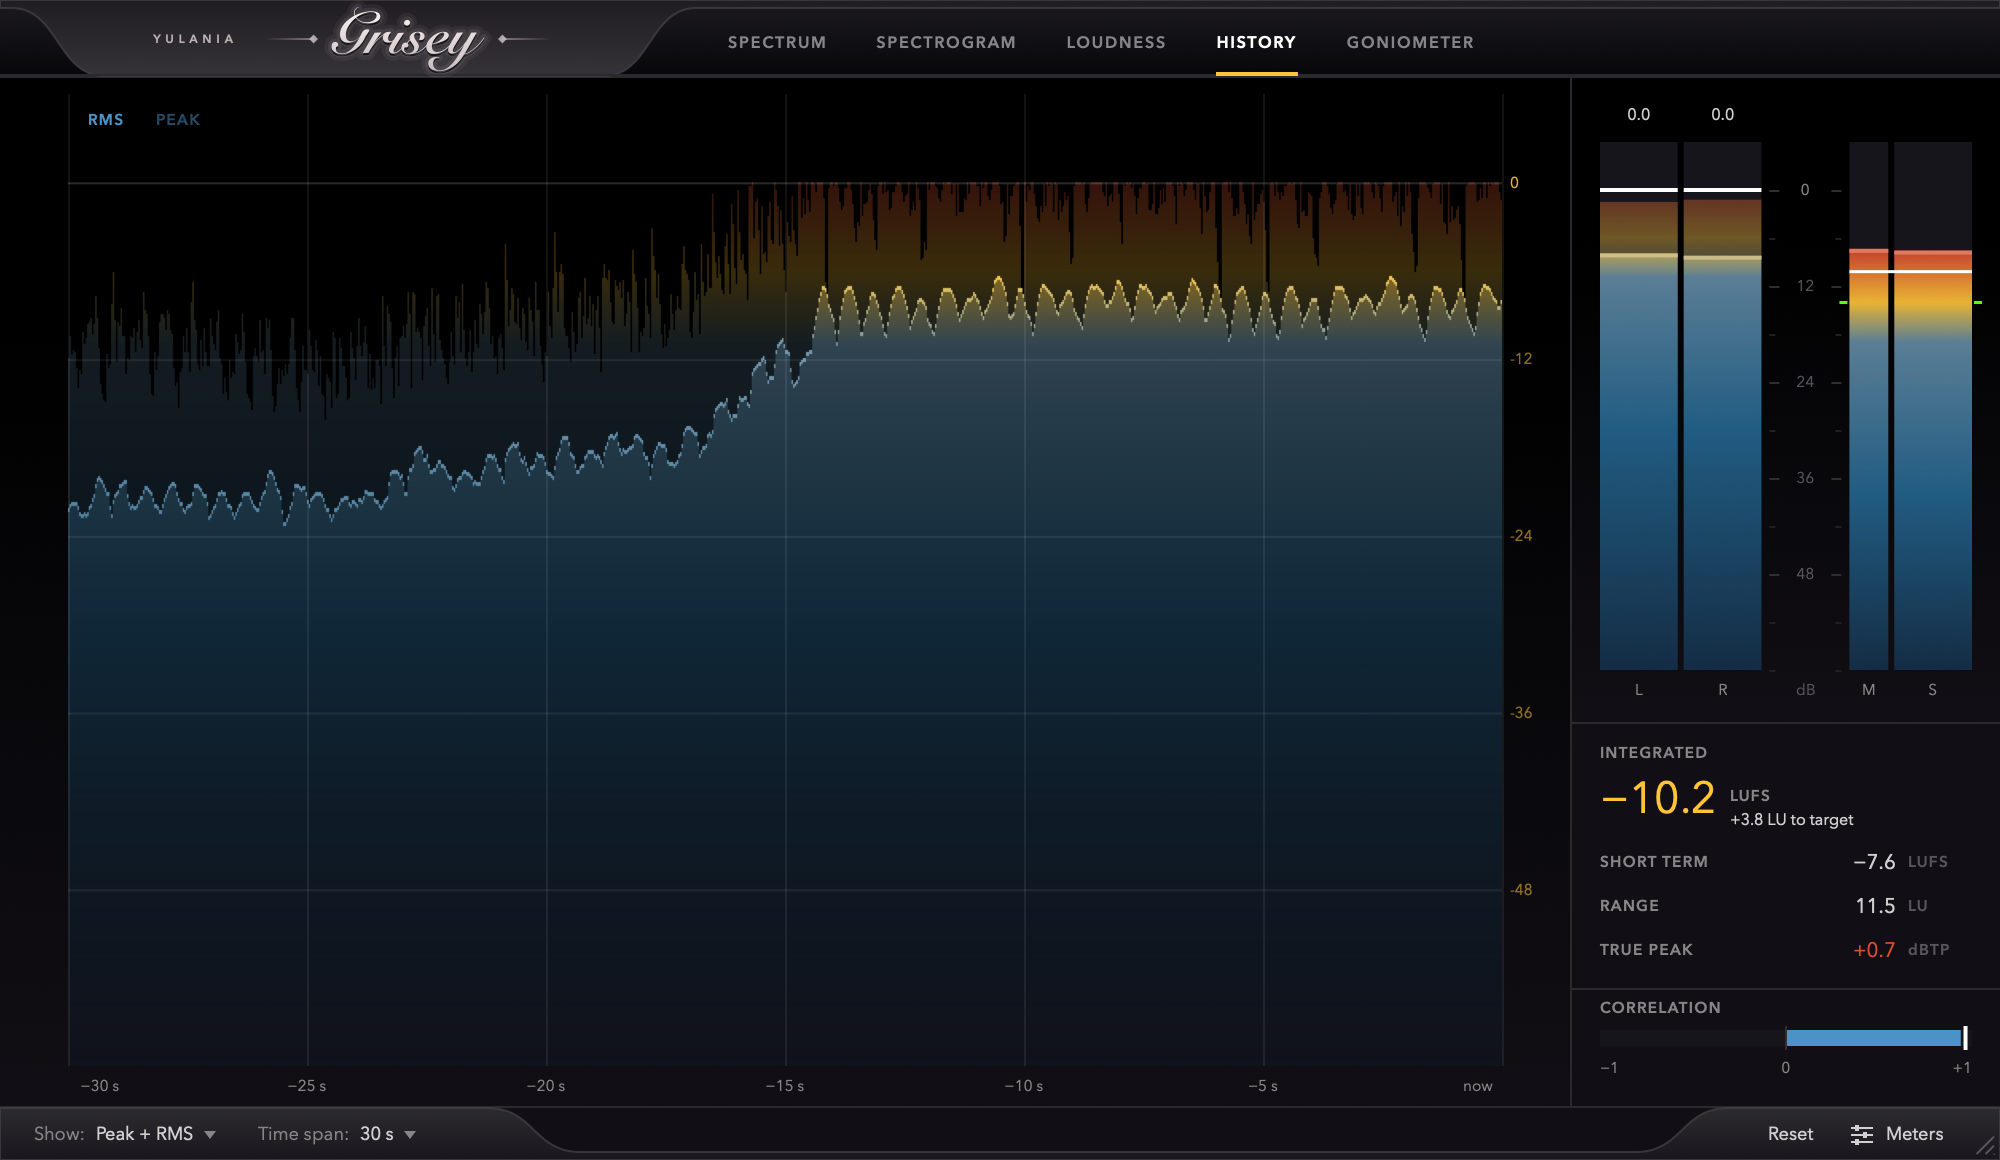
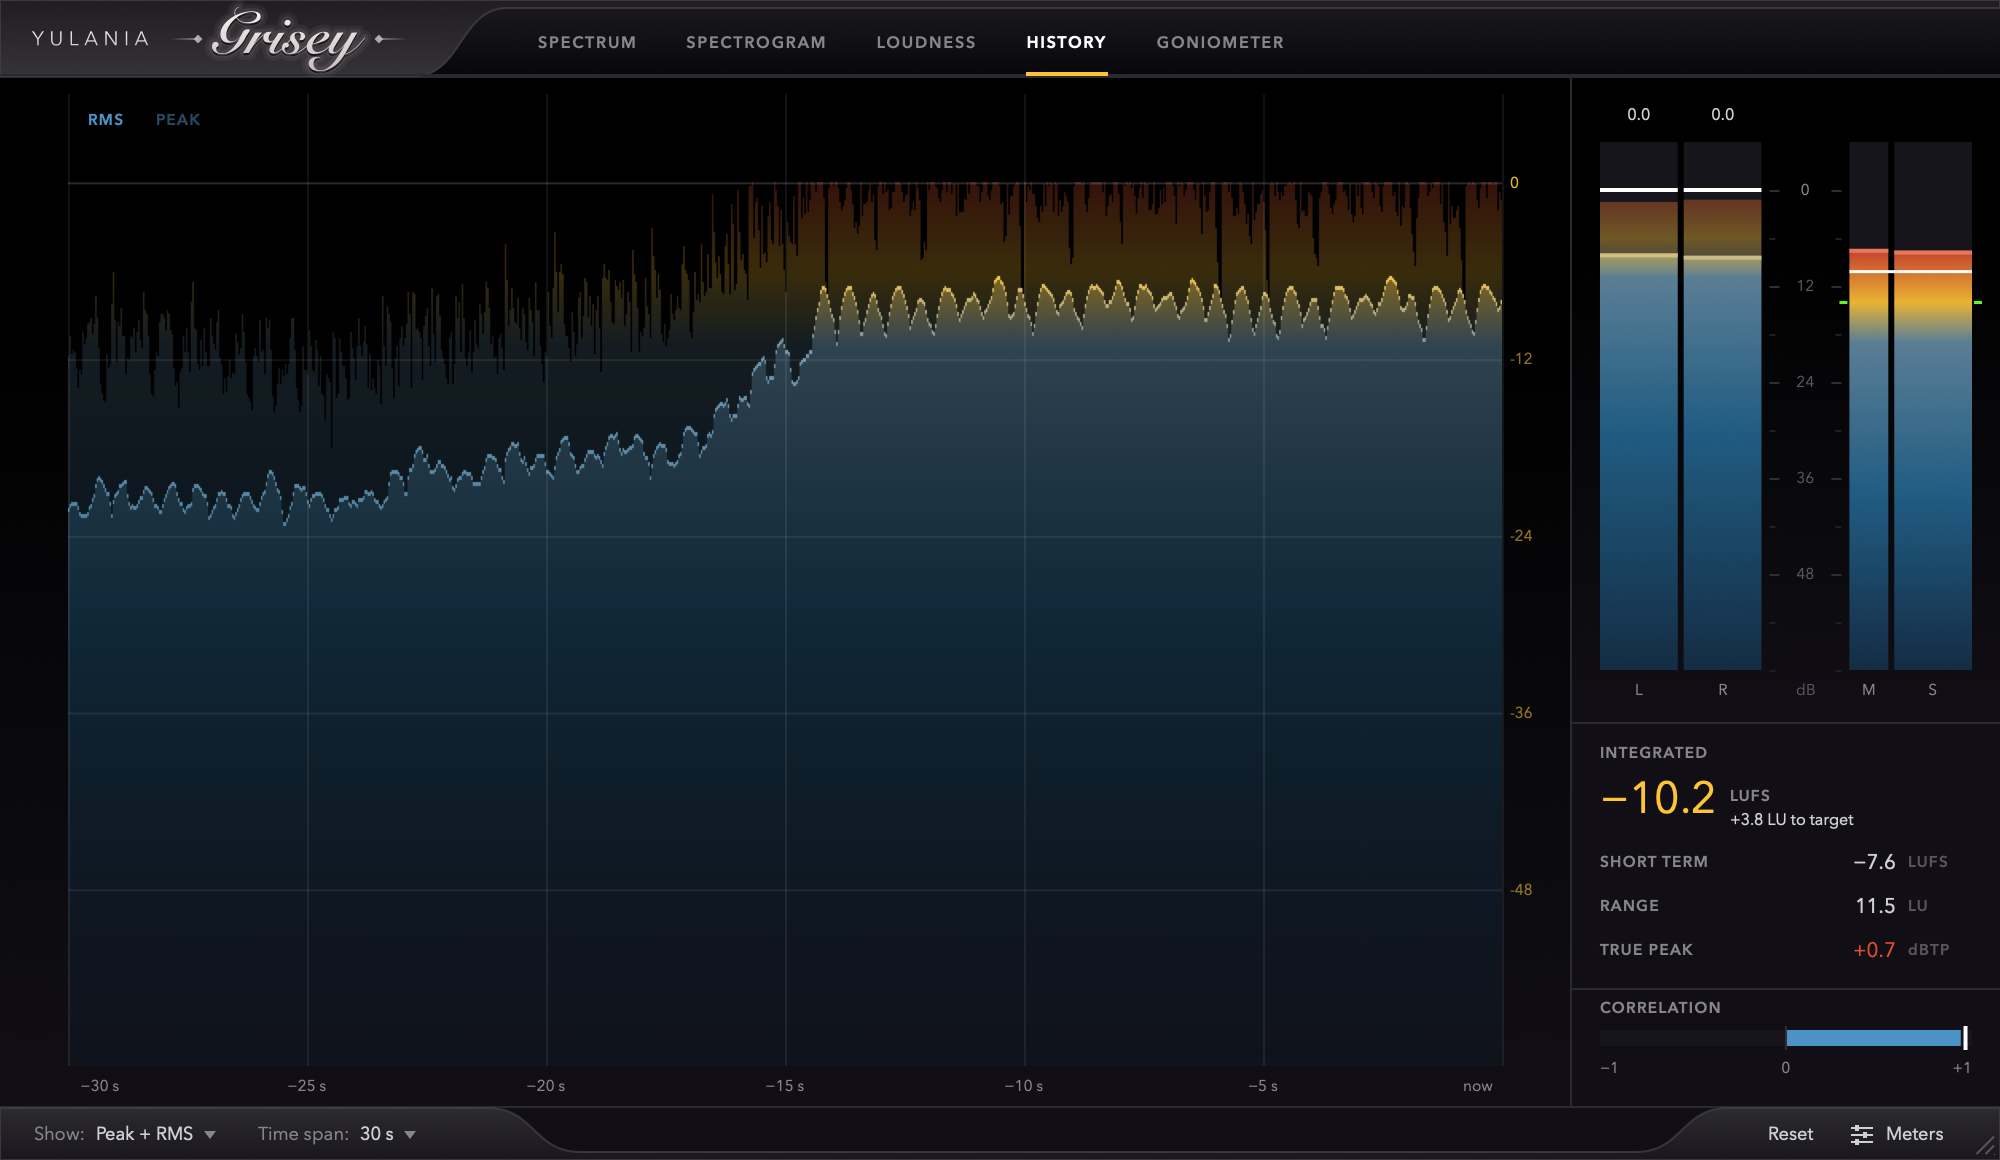
Close up the name's tab, and make the maker's name larger
Beside the header of a FabFilter plugin, ours had a great deal of room around
the name: the tab had a shoulder at both ends and a width of its own, with the
line centred in it, so the first letter was 60 points from the edge of the
window, and the maker's name was in 8 point capitals.

The tab now starts at the left edge of the window, as theirs does, with one
shoulder, at its right, and is as wide as the line in it and no wider. The
maker's name is 13.5 points, in the silver of the product's name, and the
flourishes are shorter and closer to the name. The tabs of the views start
where the tab ends, so they have more room as well.

diff --git a/Source/PluginEditor.cpp b/Source/PluginEditor.cpp
@@ -135,10 +135,30 @@ void GriseyAudioProcessorEditor::paint(juce::Graphics& g)
 
 namespace
 {
-    // The widths of the raised tab that holds the name, and of the shoulders on either side of it
-    constexpr float nameTabStart = 6.f;
-    constexpr float nameTabWidth = 250.f;
+    // The raised tab that holds the name starts at the left edge of the window, as FabFilter's does, and is as
+    // wide as the line in it with this much on either side. It ends in a shoulder of this width.
+    constexpr float namePaddingLeft = 16.f;
+    constexpr float namePaddingRight = 4.f;
     constexpr float shoulderWidth = 46.f;
+
+    juce::Font makerFont()
+    {
+        return Theme::font(Wordmark::makerFontHeight).withExtraKerningFactor(Wordmark::makerKerning);
+    }
+
+    // The width of the line in the tab: the maker, a flourish, the name, a flourish
+    float nameLineWidth()
+    {
+        const float wordWidth = Wordmark::width * Wordmark::heightInHeader / Wordmark::height;
+        const float flourish = Wordmark::ruleGap + Wordmark::ruleLength;
+        return (float)Theme::textWidth(makerFont(), Wordmark::maker) + Wordmark::makerGap + flourish + wordWidth + flourish;
+    }
+
+    // Where the flat part of the tab ends and its shoulder begins
+    float nameTabRight()
+    {
+        return namePaddingLeft + nameLineWidth() + namePaddingRight;
+    }
 
     // The thickness of the raised edge that runs along the rest of the chrome
     constexpr float rimThickness = 4.f;
@@ -160,10 +180,9 @@ void GriseyAudioProcessorEditor::paintHeader(juce::Graphics& g, juce::Rectangle<
     g.setGradientFill(juce::ColourGradient(Theme::chromeInsetTop, 0.f, bounds.getY(), Theme::chromeInsetBottom, 0.f, bounds.getBottom(), false));
     g.fillRect(bounds);
 
-    // The raised part: a rim along the top, which drops into a tab for the name
+    // The raised part: a rim along the top, which drops into a tab for the name at the left edge of the window
     const float rim = bounds.getY() + rimThickness;
-    const float tabLeft = bounds.getX() + nameTabStart + shoulderWidth;
-    const float tabRight = tabLeft + nameTabWidth;
+    const float tabRight = bounds.getX() + nameTabRight();
 
     juce::Path raised;
     raised.startNewSubPath(bounds.getTopLeft());
@@ -171,9 +190,7 @@ void GriseyAudioProcessorEditor::paintHeader(juce::Graphics& g, juce::Rectangle<
     raised.lineTo(bounds.getRight(), rim);
     raised.lineTo(tabRight + shoulderWidth, rim);
     shoulderTo(raised, { tabRight, bounds.getBottom() });
-    raised.lineTo(tabLeft, bounds.getBottom());
-    shoulderTo(raised, { bounds.getX() + nameTabStart, rim });
-    raised.lineTo(bounds.getX(), rim);
+    raised.lineTo(bounds.getBottomLeft());
     raised.closeSubPath();
 
     g.setGradientFill(juce::ColourGradient(Theme::chromeTop, 0.f, bounds.getY(), Theme::chromeBottom, 0.f, bounds.getBottom(), false));
@@ -185,7 +202,7 @@ void GriseyAudioProcessorEditor::paintHeader(juce::Graphics& g, juce::Rectangle<
     g.setColour(Theme::edge);
     g.fillRect(bounds.withTop(bounds.getBottom() - 1.f));
 
-    paintName(g, juce::Rectangle<float>(tabLeft, bounds.getY(), nameTabWidth, bounds.getHeight()));
+    paintName(g, bounds.withWidth(nameTabRight()).withTrimmedLeft(namePaddingLeft));
 }
 
 void GriseyAudioProcessorEditor::paintName(juce::Graphics& g, juce::Rectangle<float> tab)
@@ -195,14 +212,12 @@ void GriseyAudioProcessorEditor::paintName(juce::Graphics& g, juce::Rectangle<fl
     // lighter at the top than at the bottom, set into the surface, with a flourish on either side of it.
     // The maker's name is to the left of all that, on the same line. Its place does not depend on the letters
     // of the product's name, so every plugin of the maker's can have it in the same place.
-    const auto makerFont = Theme::font(Wordmark::makerFontHeight, true).withExtraKerningFactor(Wordmark::makerKerning);
-    const float makerWidth = (float)Theme::textWidth(makerFont, Wordmark::maker);
+    const float makerWidth = (float)Theme::textWidth(makerFont(), Wordmark::maker);
     const float wordWidth = Wordmark::width * Wordmark::heightInHeader / Wordmark::height;
     const float flourish = Wordmark::ruleGap + Wordmark::ruleLength;
 
-    // The whole line is centred in the tab: the maker, a flourish, the name, a flourish
-    const float lineWidth = makerWidth + Wordmark::makerGap + flourish + wordWidth + flourish;
-    const float lineLeft = tab.getCentreX() - 0.5f * lineWidth;
+    // The line starts at the left of the tab: the maker, a flourish, the name, a flourish
+    const float lineLeft = tab.getX();
 
     const auto word = juce::Rectangle<float>(lineLeft + makerWidth + Wordmark::makerGap + flourish, 0.f, wordWidth, Wordmark::heightInHeader)
                           .withCentre({ lineLeft + makerWidth + Wordmark::makerGap + flourish + 0.5f * wordWidth, tab.getCentreY() + 0.5f });
@@ -239,9 +254,11 @@ void GriseyAudioProcessorEditor::paintName(juce::Graphics& g, juce::Rectangle<fl
     g.setGradientFill(juce::ColourGradient(Theme::wordmarkTop, 0.f, word.getY(), Theme::wordmarkBottom, 0.f, word.getBottom(), false));
     g.fillPath(wordmarkOutline, placement);
 
-    g.setFont(makerFont);
-    g.setColour(Theme::wordmarkBottom.withAlpha(0.9f));
-    g.drawText(Wordmark::maker, juce::Rectangle<float>(lineLeft - 2.f, ruleY - 8.f, makerWidth + 6.f, 16.f), juce::Justification::centredLeft);
+    // The maker's name is in the same silver as the product's
+    const auto makerArea = juce::Rectangle<float>(lineLeft, ruleY - 10.f, makerWidth + 6.f, 20.f);
+    g.setFont(makerFont());
+    g.setGradientFill(juce::ColourGradient(Theme::wordmarkTop, 0.f, makerArea.getY() + 4.f, Theme::wordmarkBottom, 0.f, makerArea.getBottom() - 4.f, false));
+    g.drawText(Wordmark::maker, makerArea, juce::Justification::centredLeft);
 }
 
 void GriseyAudioProcessorEditor::paintBottomBar(juce::Graphics& g, juce::Rectangle<int> area)
@@ -287,7 +304,7 @@ void GriseyAudioProcessorEditor::resized()
 
     // The tabs start where the shoulder of the name's tab has come up to the rim
     auto header = bounds.removeFromTop(Theme::headerHeight);
-    header.removeFromLeft(juce::roundToInt(nameTabStart + nameTabWidth + 2.f * shoulderWidth) + 4);
+    header.removeFromLeft(juce::roundToInt(nameTabRight() + shoulderWidth) + 4);
     header.removeFromTop(juce::roundToInt(rimThickness));
     tabs.setBounds(header.removeFromLeft(juce::jmin(header.getWidth(), tabs.getIdealWidth())));
 

diff --git a/Tests/Snapshot.cpp b/Tests/Snapshot.cpp
@@ -133,8 +133,8 @@ namespace
 
         // The finish, in points at the height that the name has in the header
         const juce::String maker("YULANIA");
-        const float heightInHeader = 32.f, ruleGap = 9.f, ruleLength = 24.f, diamondSize = 2.2f;
-        const float makerFontHeight = 8.f, makerKerning = 0.3f, makerGap = 11.f;
+        const float heightInHeader = 32.f, ruleGap = 7.f, ruleLength = 14.f, diamondSize = 2.2f;
+        const float makerFontHeight = 13.5f, makerKerning = 0.2f, makerGap = 8.f;
 
         // Large, so that two decimal places are plenty
         const juce::Font font(juce::FontOptions(typeface, 200.f, juce::Font::plain).withStyle(style));
@@ -194,14 +194,14 @@ namespace
 
         // The maker's name as an outline too
         juce::GlyphArrangement makerGlyphs;
-        makerGlyphs.addLineOfText(Theme::font(makerFontHeight * unit, true).withExtraKerningFactor(makerKerning), maker, 0.f, 0.f);
+        makerGlyphs.addLineOfText(Theme::font(makerFontHeight * unit).withExtraKerningFactor(makerKerning), maker, 0.f, 0.f);
         juce::Path makerOutline;
         makerGlyphs.createPath(makerOutline);
         const auto makerBounds = makerOutline.getBounds();
 
         // The plate holds the same line as the header: the maker, a flourish, the name, a flourish, with the same
         // space at either end, so the name is not in the middle of it
-        const float edge = 70.f, marginY = 60.f;
+        const float edge = 60.f, marginY = 34.f;
         const float marginX = edge + makerBounds.getWidth() + (makerGap + ruleLength + ruleGap) * unit;
         const float plateWidth = marginX + width + (ruleGap + ruleLength) * unit + edge, plateHeight = height + 2.f * marginY;
         const float ruleY = marginY + 0.5f * height;
@@ -244,7 +244,7 @@ namespace
         svg << "  <path transform=\"" << place << "\" fill=\"#fbf3f3\" fill-opacity=\"0.22\" filter=\"url(#glow)\" d=\"" << data << "\"/>\n"
             << "  <path transform=\"translate(" << number(marginX) << " " << number(marginY + 1.1f * unit) << ")\" fill=\"#000\" fill-opacity=\"0.65\" d=\"" << data << "\"/>\n"
             << "  <path transform=\"" << place << "\" fill=\"url(#silver)\" d=\"" << data << "\"/>\n"
-            << "  <path fill=\"#c9bdc0\" fill-opacity=\"0.95\" d=\"" << toSvgData(makerOutline) << "\"/>\n"
+            << "  <path fill=\"url(#silver)\" d=\"" << toSvgData(makerOutline) << "\"/>\n"
             << "</svg>\n";
 
         svgFile.replaceWithText(svg, false, false, "\n");

diff --git a/Source/UI/Wordmark.h b/Source/UI/Wordmark.h
@@ -11,17 +11,17 @@ namespace Wordmark
 
     // The height of the name in the header, and the measures of the flourish on either side of it, in points
     inline constexpr float heightInHeader = 32.0f;
-    inline constexpr float ruleGap = 9.0f;
-    inline constexpr float ruleLength = 24.0f;
+    inline constexpr float ruleGap = 7.0f;
+    inline constexpr float ruleLength = 14.0f;
     inline constexpr float diamondSize = 2.2f;
 
     // The maker's name stands to the left of the flourish on the left, on the same line, and this far from
     // it. Its place does not depend on the letters of the product's name, so that every plugin of the maker's
     // can have it in the same place.
     inline constexpr const char* maker = "YULANIA";
-    inline constexpr float makerFontHeight = 8.0f;
-    inline constexpr float makerKerning = 0.3f;
-    inline constexpr float makerGap = 11.0f;
+    inline constexpr float makerFontHeight = 13.5f;
+    inline constexpr float makerKerning = 0.2f;
+    inline constexpr float makerGap = 8.0f;
 
     inline constexpr const char* outline =
         "M73.59 1.27Q69.15 2.38 66.3 6.34Q63.44 10.31 63.44 14.91Q63.44 16.97 63.68 19.11Q63.92 21.25 64.71 23Q68.99 20"
